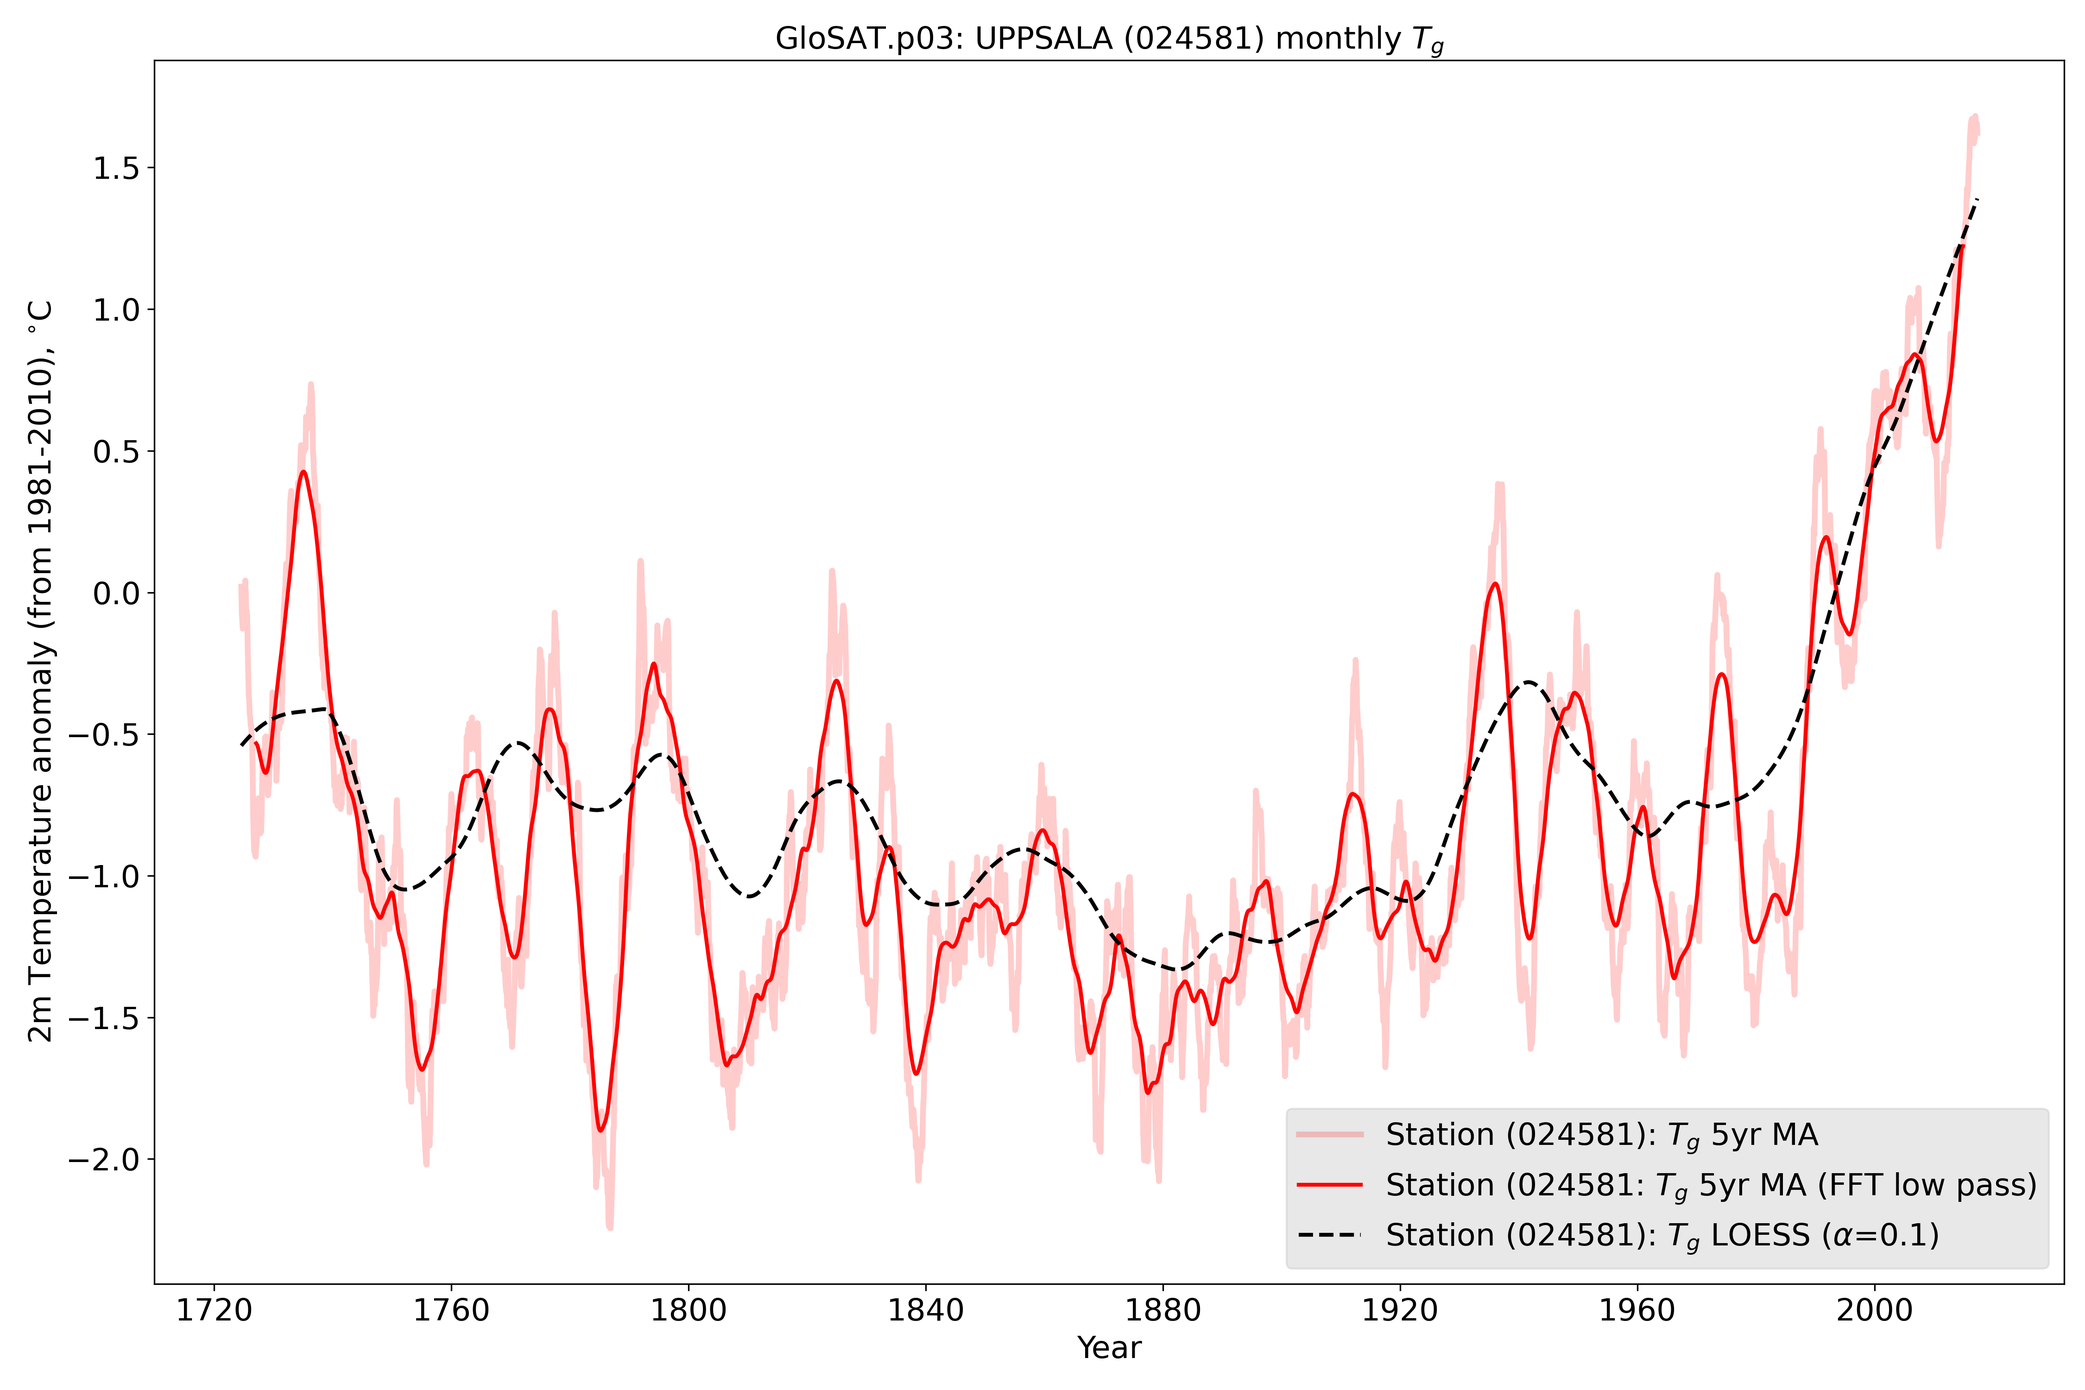
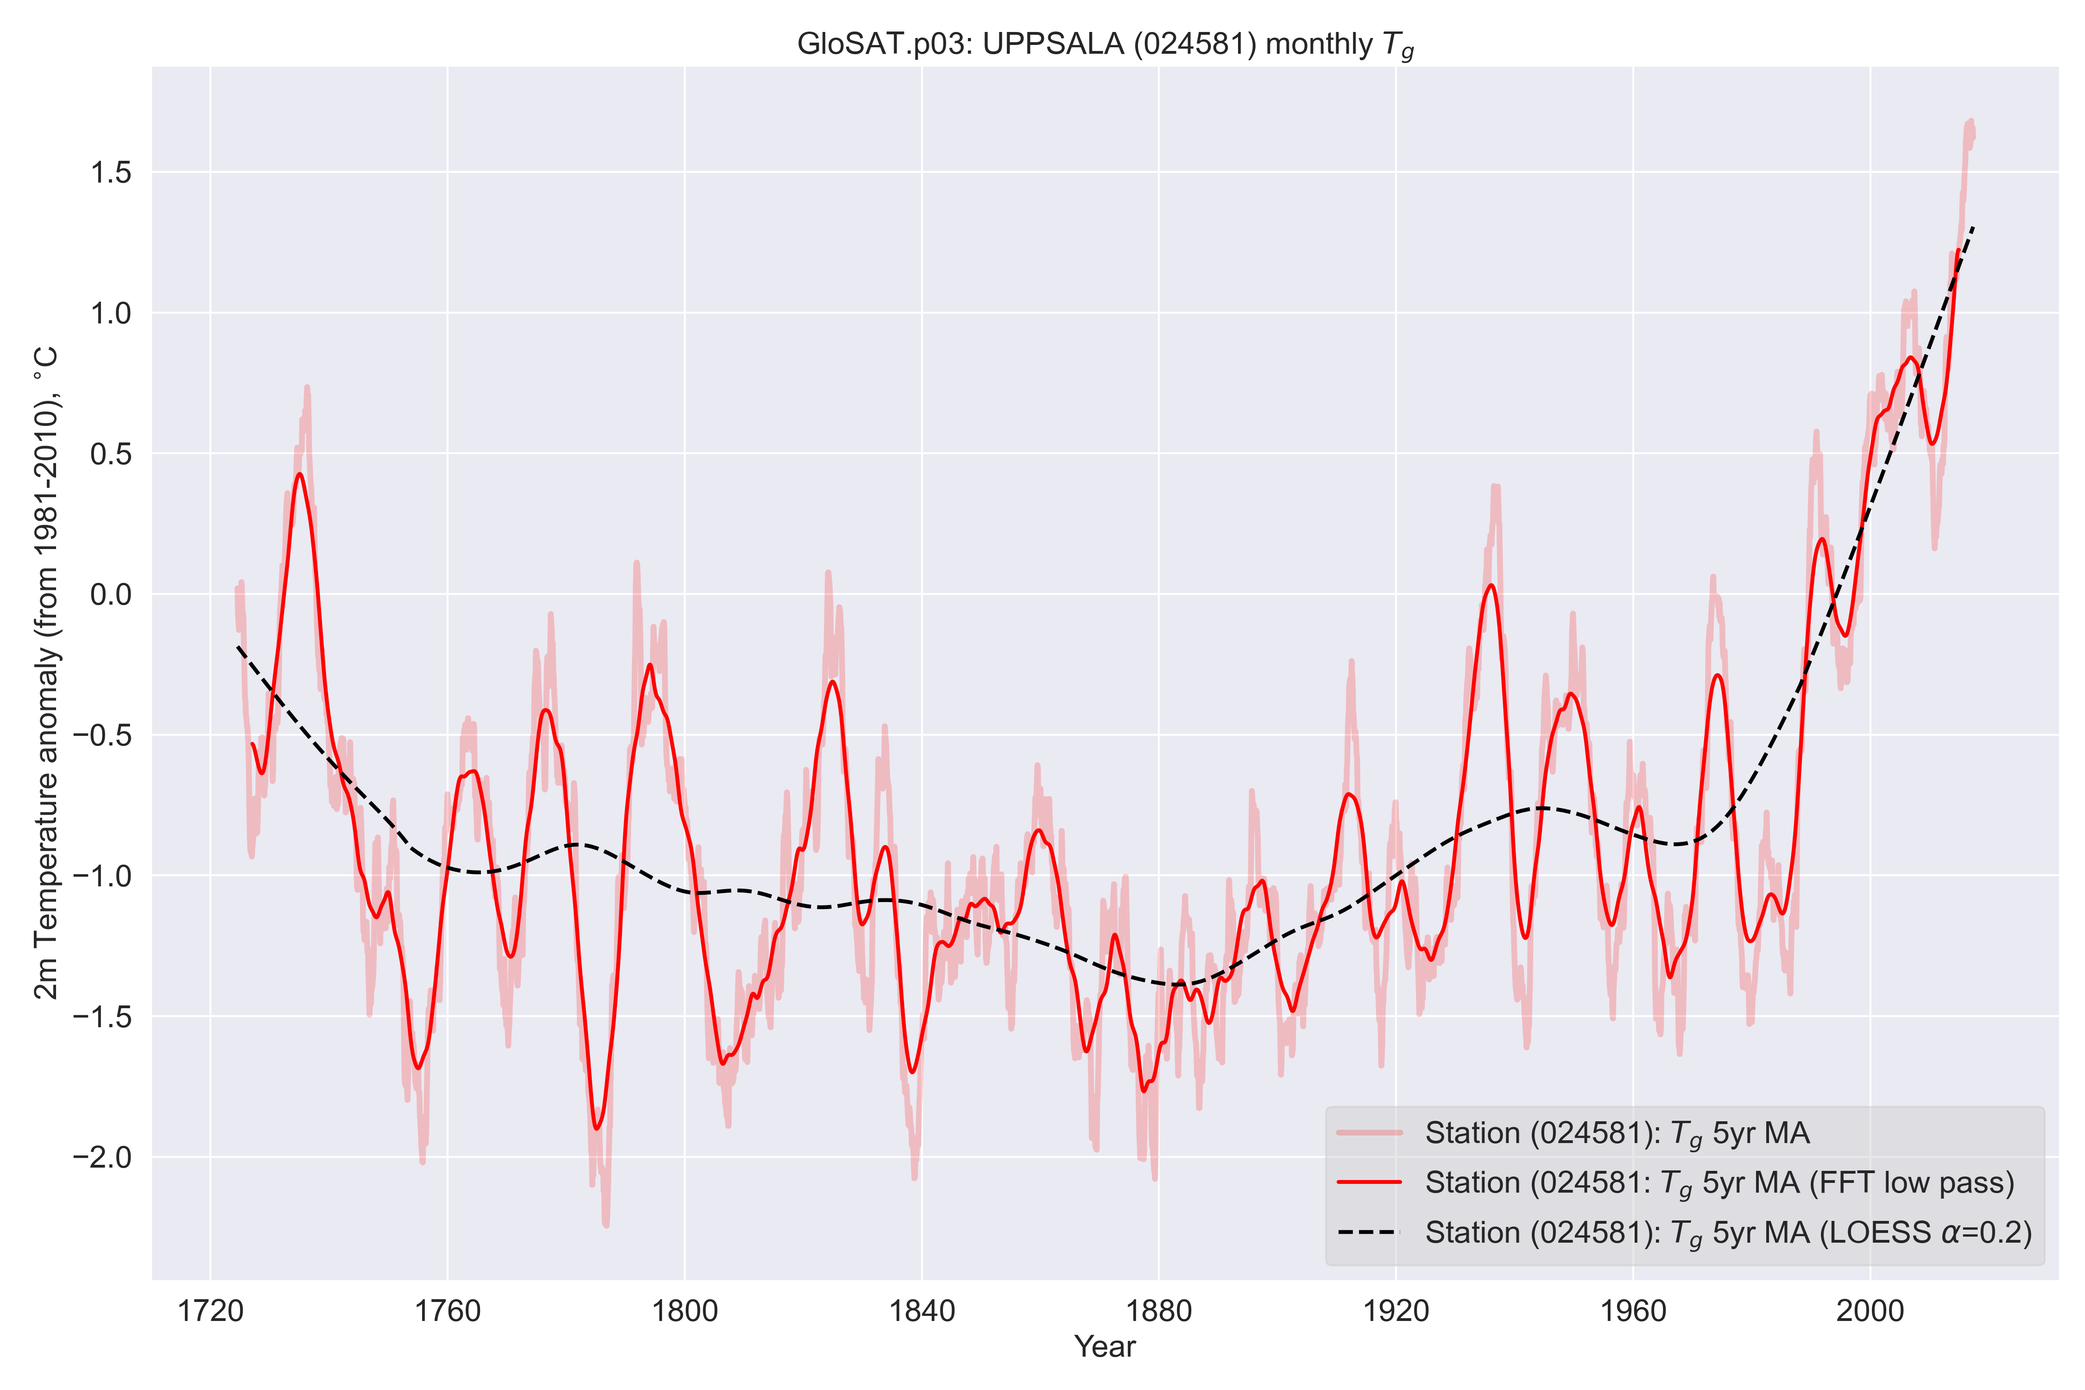
Seaborn graphics. Added 2-season and 4-season extracts. Added boxplot of season differences

diff --git a/seasonal-means-wrapper.py b/seasonal-means-wrapper.py
@@ -31,22 +31,11 @@ from netCDF4 import Dataset, num2date, date2num
 # Plotting libraries:
 import matplotlib
 import matplotlib.pyplot as plt; plt.close('all')
-import matplotlib.cm as cm
-from matplotlib import colors as mcol
-from matplotlib.cm import ScalarMappable
+from matplotlib.patches import Polygon # for boxplot colours
 from pandas.plotting import register_matplotlib_converters
 register_matplotlib_converters()
 from matplotlib import rcParams
-#import matplotlib.dates as mdates
-#import matplotlib.colors as mcolors
-#import matplotlib.ticker as mticker
-#from matplotlib.ticker import FuncFormatter
-#from matplotlib.collections import PolyCollection
-#from mpl_toolkits import mplot3d
-#from mpl_toolkits.mplot3d import Axes3D
-#from mpl_toolkits.mplot3d import proj3d
-#import cmocean
-#import seaborn as sns; sns.set()
+import seaborn as sns; sns.set()
 
 # OS libraries:
 import os
@@ -95,7 +84,6 @@ warnings.filterwarnings("ignore", message="numpy.ufunc size changed")
 
 #------------------------------------------------------------------------------
 import filter_cru_dft as cru # CRU DFT filter
-#import filter_cru_dft as cru_filter # CRU DFT filter
 #------------------------------------------------------------------------------
 
 #------------------------------------------------------------------------------
@@ -114,9 +102,11 @@ else:
     temperature_unit = 'C'
 
 use_anomalies = True
+use_fft_edge_truncation = False
 
 nsmooth = 60                 # 5yr MA monthly
 nfft = 16                    # power of 2 for the DFT
+loess_frac = 0.2             # LOESS window 
 
 #station_code = '037401'     # CET
 #station_code = '744920'     # BHO
@@ -135,8 +125,6 @@ station_code = '024581'     # Uppsala
 if use_dark_theme == True:
     
     matplotlib.rcParams['text.usetex'] = False
-#    rcParams['font.family'] = 'sans-serif'
-#    rcParams['font.sans-serif'] = ['Avant Garde', 'Lucida Grande', 'Verdana', 'DejaVu Sans' ]
     plt.rc('text',color='white')
     plt.rc('lines',color='white')
     plt.rc('patch',edgecolor='white')
@@ -153,22 +141,22 @@ if use_dark_theme == True:
     
 else:
 
-    matplotlib.rcParams['text.usetex'] = False
-#    rcParams['font.family'] = 'sans-serif'
-#    rcParams['font.sans-serif'] = ['Avant Garde', 'Lucida Grande', 'Verdana', 'DejaVu Sans' ]
-    plt.rc('text',color='black')
-    plt.rc('lines',color='black')
-    plt.rc('patch',edgecolor='black')
-    plt.rc('grid',color='lightgray')
-    plt.rc('xtick',color='black')
-    plt.rc('ytick',color='black')
-    plt.rc('axes',labelcolor='black')
-    plt.rc('axes',facecolor='white')    
-    plt.rc('axes',edgecolor='black')
-    plt.rc('figure',facecolor='white')
-    plt.rc('figure',edgecolor='white')
-    plt.rc('savefig',edgecolor='white')
-    plt.rc('savefig',facecolor='white')
+	print('using Seaborn graphics ...')
+
+#    matplotlib.rcParams['text.usetex'] = False
+#    plt.rc('text',color='black')
+#    plt.rc('lines',color='black')
+#    plt.rc('patch',edgecolor='black')
+#    plt.rc('grid',color='lightgray')
+#    plt.rc('xtick',color='black')
+#    plt.rc('ytick',color='black')
+#    plt.rc('axes',labelcolor='black')
+#    plt.rc('axes',facecolor='white')    
+#    plt.rc('axes',edgecolor='black')
+#    plt.rc('figure',facecolor='white')
+#    plt.rc('figure',edgecolor='white')
+#    plt.rc('savefig',edgecolor='white')
+#    plt.rc('savefig',facecolor='white')
 
 # Calculate current time
 
@@ -223,7 +211,6 @@ station_name = df['stationname'].unique()[0]
     
 # SET: time axis container
         
-# df_yearly = pd.DataFrame({'year': np.arange( 1780, 2021 )}) # 1780-2020 inclusive
 df_yearly = pd.DataFrame({'year': np.arange( 1678, 2022 )}) # 1678-2020 inclusive
 dt = df_yearly.merge(df, how='left', on='year')
     
@@ -263,24 +250,18 @@ df_xr_resampled_sd = df_xr.Tg.resample(index='AS').std().to_dataset()
 df_yearly = pd.DataFrame({'Tg':df_xr_resampled.Tg.values}, index = df_xr_resampled.index.values)
 df_yearly_sd = pd.DataFrame({'Tg':df_xr_resampled_sd.Tg.values}, index = df_xr_resampled_sd.index.values)
    
-# CALCULATE: LOESS fit (use Pandas rolling to interpolate and
+# CALCULATE: LOESS fit ( use Pandas rolling to interpolate )
     
-lowess = sm.nonparametric.lowess(df['Tg'].values[mask], df['Tg'].index[mask], frac=0.1)       
-da = pd.DataFrame({'LOESS':lowess[:,1]}, index=df['Tg'].index[mask])
+loess = sm.nonparametric.lowess(df['MA'].values[mask], df['MA'].index[mask], frac=loess_frac)       
+da = pd.DataFrame({'LOESS':loess[:,1]}, index=df['MA'].index[mask])
 df['LOESS'] = da                     
 
 # CALCULATE: FFT low pass
 
 da = pd.DataFrame({'FFT':smooth_fft(df['MA'].values[mask], nfft)}, index=df['MA'].index[mask])
 df['FFT'] = da.rolling(nsmooth, center=True).mean()
-# df['FFT'] = da[(da.index>da.index[int(nfft/2)]) & (da.index<=da.index[-int(nfft/2)])] # edge effect truncation
-    
-# RESAMPLE: seasonal weighted means
-    
-#    month_length = df_uppsala_xr.index.dt.days_in_month
-#    weights = month_length.groupby('index.season') / month_length.groupby('index.season').sum()
-#    df_seasonal_xr = (df_uppsala_xr * weights).groupby('index.season').sum(dim='index')    
-    
+if use_fft_edge_truncation == True: df['FFT'] = da[(da.index>da.index[int(nfft/2)]) & (da.index<=da.index[-int(nfft/2)])] # edge effect truncation
+        
 # EXTRACT: seasonal components ( D from first year only --> N-1 seasonal estimates )
 
 trim_months = len(t_monthly)%12
@@ -301,11 +282,7 @@ df_seasonal_fft['JJA'] = pd.DataFrame({'DJF':smooth_fft(df_seasonal['JJA'].value
 df_seasonal_fft['SON'] = pd.DataFrame({'DJF':smooth_fft(df_seasonal['SON'].values[mask['SON']], nfft)}, index=df_seasonal['SON'].index[mask['SON']])
 df_seasonal_fft['ONDJFM'] = pd.DataFrame({'ONDJFM':smooth_fft(df_seasonal['ONDJFM'].values[mask['ONDJFM']], nfft)}, index=df_seasonal['ONDJFM'].index[mask['ONDJFM']])
 df_seasonal_fft['AMJJAS'] = pd.DataFrame({'AMJJAS':smooth_fft(df_seasonal['AMJJAS'].values[mask['AMJJAS']], nfft)}, index=df_seasonal['AMJJAS'].index[mask['AMJJAS']])
-df_seasonal_fft = df_seasonal_fft[ (df_seasonal_fft.index > df_seasonal_fft.index[int(nfft/2)]) & (df_seasonal_fft.index <= df_seasonal_fft.index[-int(nfft/2)])] # edge effect truncation                   
-
-# SMOOTH: seasonal extracts ( decadal )
-
-#df_seasonal_fft = df_seasonal.copy()[mask].rolling(10, center=True).mean()
+#df_seasonal_fft = df_seasonal_fft[ (df_seasonal_fft.index > df_seasonal_fft.index[int(nfft/2)]) & (df_seasonal_fft.index <= df_seasonal_fft.index[-int(nfft/2)])] # edge effect truncation                   
 
 #==============================================================================
 # PLOTS
@@ -331,7 +308,7 @@ fig, ax = plt.subplots(figsize=(15,10))
 # plt.fill_between(df_yearly.index, df_yearly.Tg-df_yearly_sd.Tg, df_yearly.Tg+df_yearly_sd.Tg, ls='-', lw=1, color='black', alpha=0.2, zorder=0, label=r'Yearly $\mu\pm\sigma$')
 plt.plot(df.index, df['MA'], ls='-', lw=3, color='red', alpha=0.2, zorder=1, label=r'Station (' + station_code + r'): $T_{g}$ 5yr MA')
 plt.plot(df.index, df['FFT'], ls='-', lw=2, color='red', alpha=1, zorder=1, label=r'Station (' + station_code + r': $T_{g}$ 5yr MA (FFT low pass)')
-plt.plot(df.index, df['LOESS'], ls='--', lw=2, color=default_color, alpha=1, zorder=1, label=r'Station (' + station_code + r'): $T_{g}$ LOESS ($\alpha$=0.1)')
+plt.plot(df.index, df['LOESS'], ls='--', lw=2, color=default_color, alpha=1, zorder=1, label=r'Station (' + station_code + r'): $T_{g}$ 5yr MA (LOESS $\alpha$=' + str(loess_frac) +')' )
 plt.xlabel('Year', fontsize=fontsize)
 if use_anomalies == True:
     plt.ylabel(r'2m Temperature anomaly (from ' + str(baseline_start) + '-' + str(baseline_end) + r'), $^{\circ}$' + temperature_unit, fontsize=fontsize)
@@ -345,12 +322,12 @@ plt.savefig(figstr, dpi=300)
 plt.close('all')
 
 #------------------------------------------------------------------------------    
-# PLOT: seasonal extracts
+# PLOT: seasonal extracts: 4-season
 #------------------------------------------------------------------------------    
 
-print('plotting seasonal timeseries ... ')   
+print('plotting seasonal timeseries: 4-season ... ')   
   
-figstr = station_code + '-' + 'wrapper' + '-' + 'seasonal.png'
+figstr = station_code + '-' + 'wrapper' + '-' + '4-seasonal.png'
 titlestr = 'GloSAT.p03: ' + station_name.upper() + ' (' + station_code + ') seasonal $T_g$: decadal and FFT low pass fit'
                
 fig, ax = plt.subplots(figsize=(15,10))    
@@ -358,14 +335,10 @@ plt.plot(df_seasonal.index, df_seasonal['DJF'].rolling(10,center=True).mean(), l
 plt.plot(df_seasonal.index, df_seasonal['MAM'].rolling(10,center=True).mean(), ls='-', lw=3, color='red', alpha=0.2, zorder=1)
 plt.plot(df_seasonal.index, df_seasonal['JJA'].rolling(10,center=True).mean(), ls='-', lw=3, color='purple', alpha=0.2, zorder=1)
 plt.plot(df_seasonal.index, df_seasonal['SON'].rolling(10,center=True).mean(), ls='-', lw=3, color='green', alpha=0.2, zorder=1)
-#plt.plot(df_seasonal.index, df_seasonal['AMJJAS'].rolling(10,center=True).mean(), ls='-', lw=3, color='red', alpha=1, zorder=1, label=r'AMJJAS')
-#plt.plot(df_seasonal.index, df_seasonal['ONDJFM'].rolling(10,center=True).mean(), ls='-', lw=3, color='blue', alpha=1, zorder=1, label=r'ONDJFM')
 plt.plot(df_seasonal_fft.index, df_seasonal_fft['DJF'], ls='-', lw=3, color='blue', alpha=1, zorder=1, label=r'Winter')
 plt.plot(df_seasonal_fft.index, df_seasonal_fft['MAM'], ls='-', lw=3, color='red', alpha=1, zorder=1, label=r'Spring')
 plt.plot(df_seasonal_fft.index, df_seasonal_fft['JJA'], ls='-', lw=3, color='purple', alpha=1, zorder=1, label=r'Summer')
 plt.plot(df_seasonal_fft.index, df_seasonal_fft['SON'], ls='-', lw=3, color='green', alpha=1, zorder=1, label=r'Autumn')
-#plt.plot(df_seasonal_fft.index, df_seasonal_fft['AMJJAS'], ls='-', lw=3, color='red', alpha=1, zorder=1, label=r'AMJJAS')
-#plt.plot(df_seasonal_fft.index, df_seasonal_fft['ONDJFM'], ls='-', lw=3, color='blue', alpha=1, zorder=1, label=r'ONDJFM')
 plt.xlabel('Year', fontsize=fontsize)
 if use_anomalies == True:
     plt.ylabel(r'2m Temperature anomaly (from ' + str(baseline_start) + '-' + str(baseline_end) + r'), $^{\circ}$' + temperature_unit, fontsize=fontsize)
@@ -379,30 +352,19 @@ plt.savefig(figstr, dpi=300)
 plt.close('all')
 
 #------------------------------------------------------------------------------    
-# PLOT: seasonal differences
+# PLOT: seasonal extracts: 2-season
 #------------------------------------------------------------------------------    
-    
-print('plotting seasonal differences ... ')   
 
-figstr = station_code + '-' + 'wrapper' + '-' + 'seasonal-difference.png'
-titlestr = 'GloSAT.p03: ' + station_name.upper() + ' (' + station_code + ') seasonal $T_g$ differences: decadal (FFT low pass)'
+print('plotting seasonal timeseries: 2 season ... ')   
+  
+figstr = station_code + '-' + 'wrapper' + '-' + '2-seasonal.png'
+titlestr = 'GloSAT.p03: ' + station_name.upper() + ' (' + station_code + ') seasonal $T_g$: decadal and FFT low pass fit'
                
 fig, ax = plt.subplots(figsize=(15,10))    
-#plt.fill_between(df_yearly.index, -df_yearly_sd.Tg, +df_yearly_sd.Tg, ls='-', lw=1, color='black', alpha=0.2, zorder=0, label=r'Yearly $\mu\pm\sigma$')    
-mask = np.isfinite(df_seasonal_fft)
-mask = mask['DJF'] & mask['MAM'] & mask['JJA'] & mask['SON']
-plt.plot(df_seasonal_fft.index[mask], df_seasonal_fft['DJF'][mask]-df_seasonal_fft['MAM'][mask], ls='-', lw=3, color='blue', alpha=1, zorder=1, label=r'DJF-MAM')
-plt.plot(df_seasonal_fft.index[mask], df_seasonal_fft['DJF'][mask]-df_seasonal_fft['JJA'][mask], ls='-', lw=3, color='cyan', alpha=1, zorder=1, label=r'DJF-JJA')
-plt.plot(df_seasonal_fft.index[mask], df_seasonal_fft['DJF'][mask]-df_seasonal_fft['SON'][mask], ls='-', lw=3, color='purple', alpha=1, zorder=1, label=r'DJF-SON')
-plt.plot(df_seasonal_fft.index[mask], df_seasonal_fft['MAM'][mask]-df_seasonal_fft['JJA'][mask], ls='-', lw=3, color='red', alpha=1, zorder=1, label=r'MAM-JJA')
-plt.plot(df_seasonal_fft.index[mask], df_seasonal_fft['MAM'][mask]-df_seasonal_fft['SON'][mask], ls='-', lw=3, color='orange', alpha=1, zorder=1, label=r'MAM-SON')
-plt.plot(df_seasonal_fft.index[mask], df_seasonal_fft['JJA'][mask]-df_seasonal_fft['SON'][mask], ls='-', lw=3, color='yellow', alpha=1, zorder=1, label=r'JJA-SON')
-plt.axhline(y=np.nanmean( df_seasonal_fft['DJF'][mask]-df_seasonal_fft['MAM'][mask] ), ls='--', lw=3, color='blue')
-plt.axhline(y=np.nanmean( df_seasonal_fft['DJF'][mask]-df_seasonal_fft['JJA'][mask] ), ls='--', lw=3, color='cyan')
-plt.axhline(y=np.nanmean( df_seasonal_fft['DJF'][mask]-df_seasonal_fft['SON'][mask] ), ls='--', lw=3, color='purple')
-plt.axhline(y=np.nanmean( df_seasonal_fft['MAM'][mask]-df_seasonal_fft['JJA'][mask] ), ls='--', lw=3, color='red')
-plt.axhline(y=np.nanmean( df_seasonal_fft['MAM'][mask]-df_seasonal_fft['SON'][mask] ), ls='--', lw=3, color='orange')
-plt.axhline(y=np.nanmean( df_seasonal_fft['JJA'][mask]-df_seasonal_fft['SON'][mask] ), ls='--', lw=3, color='yellow')
+plt.plot(df_seasonal.index, df_seasonal['AMJJAS'].rolling(10,center=True).mean(), ls='-', lw=3, color='orange', alpha=0.2, zorder=1)
+plt.plot(df_seasonal.index, df_seasonal['ONDJFM'].rolling(10,center=True).mean(), ls='-', lw=3, color='navy', alpha=0.2, zorder=1)
+plt.plot(df_seasonal_fft.index, df_seasonal_fft['AMJJAS'], ls='-', lw=3, color='orange', alpha=1, zorder=1, label=r'AMJJAS')
+plt.plot(df_seasonal_fft.index, df_seasonal_fft['ONDJFM'], ls='-', lw=3, color='navy', alpha=1, zorder=1, label=r'ONDJFM')
 plt.xlabel('Year', fontsize=fontsize)
 if use_anomalies == True:
     plt.ylabel(r'2m Temperature anomaly (from ' + str(baseline_start) + '-' + str(baseline_end) + r'), $^{\circ}$' + temperature_unit, fontsize=fontsize)
@@ -411,6 +373,63 @@ else:
 plt.title(titlestr, fontsize=fontsize)
 plt.tick_params(labelsize=fontsize)    
 plt.legend(loc='lower right', ncol=1, markerscale=1, facecolor='lightgrey', framealpha=0.5, fontsize=fontsize)    
+fig.tight_layout()
+plt.savefig(figstr, dpi=300)
+plt.close('all')
+
+#------------------------------------------------------------------------------    
+# PLOT: seasonal difference boxplots
+#------------------------------------------------------------------------------    
+
+print('plotting seasonal difference boxplots ... ')   
+
+mask = np.isfinite(df_seasonal)
+mask = mask['DJF'] & mask['MAM'] & mask['JJA'] & mask['SON']
+diffs = [
+
+    df_seasonal['ONDJFM'][mask]-df_seasonal['SON'][mask],
+    df_seasonal['ONDJFM'][mask]-df_seasonal['DJF'][mask],
+    df_seasonal['ONDJFM'][mask]-df_seasonal['MAM'][mask],
+    df_seasonal['AMJJAS'][mask]-df_seasonal['MAM'][mask],
+    df_seasonal['AMJJAS'][mask]-df_seasonal['JJA'][mask],
+    df_seasonal['AMJJAS'][mask]-df_seasonal['SON'][mask],    
+    df_seasonal['DJF'][mask]-df_seasonal['MAM'][mask],
+    df_seasonal['DJF'][mask]-df_seasonal['SON'][mask],
+    df_seasonal['JJA'][mask]-df_seasonal['MAM'][mask],
+    df_seasonal['JJA'][mask]-df_seasonal['SON'][mask]
+    
+]    
+
+figstr = station_code + '-' + 'wrapper' + '-' + 'seasonal-difference-boxplots.png'
+titlestr = 'GloSAT.p03: ' + station_name.upper() + ' (' + station_code + ') seasonal $T_g$ difference boxplots'
+               
+fig, ax = plt.subplots(figsize=(15,10))    
+boxprops = dict(linestyle='-', lw=2, color='black')
+medianprops = dict(ls='-', lw=3, color='goldenrod')
+capprops = dict(ls='-', lw=3, color='teal')
+flierprops = dict(marker='s', markerfacecolor='lightgrey', markersize=5)
+boxlist = [
+    'ONDJFM - SON', 'ONDJFM - DJF', 'ONDJFM - MAM',
+    'AMJJAS - MAM', 'AMJJAS - JJA', 'AMJJAS - SON',
+    'DJF - MAM', 'DJF - SON', 'JJA - MAM', 'JJA - SON']
+box_colors = ['white','white','white','white','white','white','white','white','white','white']
+bp = ax.boxplot( diffs, notch=False, bootstrap=10000, conf_intervals=None, whis=True, showfliers=False, 
+            medianprops=medianprops, capprops=capprops, flierprops=flierprops )
+for i in range(len(boxlist)):
+    box = bp['boxes'][i]
+    box_x = []
+    box_y = []
+    for j in range(5):
+        box_x.append(box.get_xdata()[j])
+        box_y.append(box.get_ydata()[j])
+    box_coords = np.column_stack([box_x, box_y])
+    ax.add_patch(Polygon(box_coords, facecolor=box_colors[i]))
+plt.ylabel(r'Mean seasonal difference, $^{\circ}$' + temperature_unit, fontsize=fontsize)
+plt.title(titlestr, fontsize=fontsize)
+xticklabels = boxlist
+ax.set_xticks(np.arange(1,len(boxlist)+1))
+ax.set_xticklabels(xticklabels, rotation=90, ha="right", rotation_mode="anchor") 
+plt.tick_params(labelsize=fontsize)    
 fig.tight_layout()
 plt.savefig(figstr, dpi=300)
 plt.close('all')    
